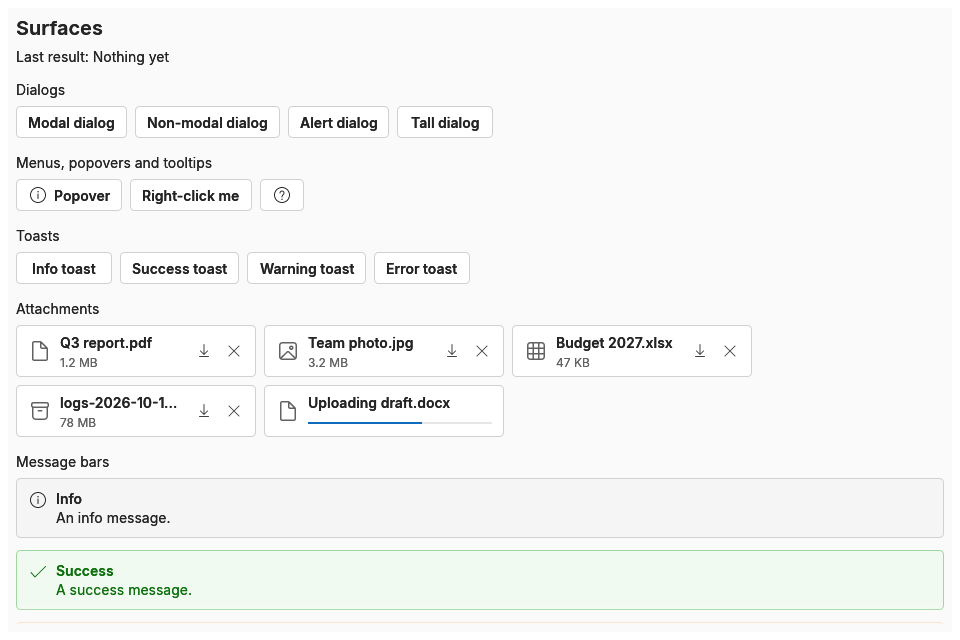
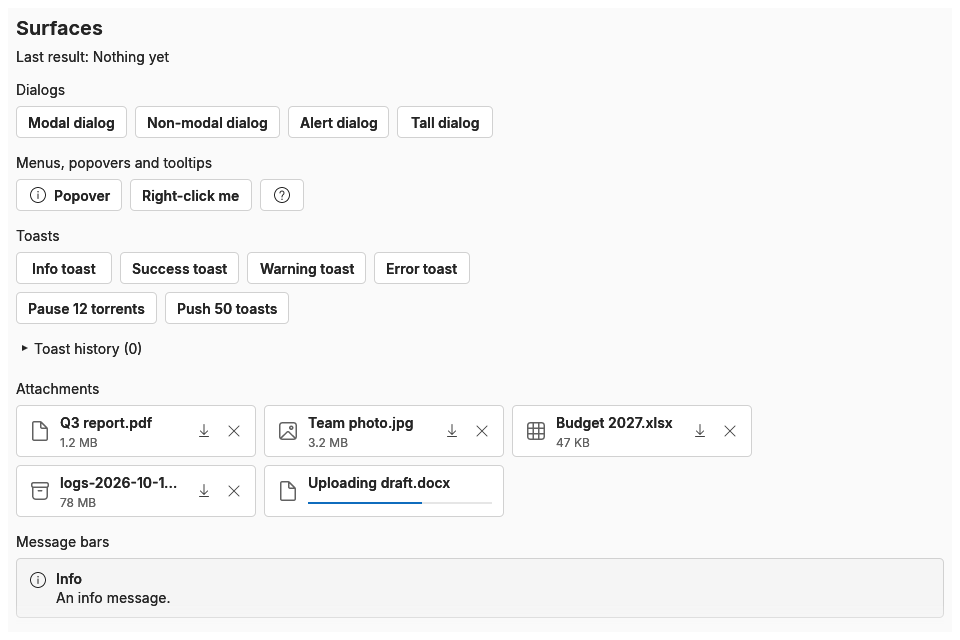
Toaster: coalescing, overflow count and history (#120) (#122)
- push_keyed coalesces a live toast with the same key into one toast
- collapsed '+N more' row counts toasts waiting behind the stack
- set_max_visible configures the stack size (default 3)
- history keeps the last 100 pushes; clear_history forgets them
- gallery surfaces page: keyed and bulk demos, history list

diff --git a/crates/fluent2-egui/src/surfaces/toast.rs b/crates/fluent2-egui/src/surfaces/toast.rs
@@ -1,9 +1,15 @@
 //! Fluent Toast and a toaster host.
 //!
 //! [`Toaster`] lives in `ctx.data`. The app calls [`Toaster::show`] once per frame;
-//! it draws at most three toasts in a foreground [`egui::Area`], newest at the
-//! bottom. Enter and exit slide and fade with the motion tokens. A timeout
-//! (default 5 s) pauses while the toast is hovered.
+//! it draws at most three toasts (see [`Toaster::set_max_visible`]) in a foreground
+//! [`egui::Area`], newest at the bottom. Toasts that do not fit are counted in a
+//! "+N more" row above the stack. Enter and exit slide and fade with the motion tokens.
+//! A timeout (default 5 s) pauses while the toast is hovered.
+//!
+//! [`Toaster::push_keyed`] coalesces: while a toast with the same key is still
+//! showing, the push replaces its content and restarts its timeout instead of stacking
+//! a second toast, so twelve "Paused" pushes from one bulk action read as one toast.
+//! [`Toaster::history`] keeps the last 100 pushes for a history list.
 //!
 //! ```
 //! use fluent2_egui::surfaces::{Intent, Toast, ToastPosition, Toaster};
@@ -31,6 +37,7 @@
 //! # }
 //! ```
 
+use std::collections::VecDeque;
 use std::time::Duration;
 
 use egui::epaint::RectShape;
@@ -78,9 +85,14 @@ pub struct Toast {
 #[derive(Clone, Copy, Debug, Eq, PartialEq, Hash)]
 pub struct ToastId(u64);
 
+/// How many pushes [`Toaster::history`] keeps. Older ones are dropped.
+const HISTORY_LIMIT: usize = 100;
+
 #[derive(Clone)]
 struct Entry {
     id: ToastId,
+    /// Coalescing key from [`Toaster::push_keyed`]; `None` for plain pushes.
+    key: Option<String>,
     toast: Toast,
     born: f64,
     paused_for: f64,
@@ -94,6 +106,8 @@ struct Host {
     next: u64,
     entries: Vec<Entry>,
     action_clicks: Vec<ToastId>,
+    max_visible: usize,
+    history: VecDeque<Toast>,
 }
 
 impl Default for Host {
@@ -102,6 +116,8 @@ impl Default for Host {
             next: 1,
             entries: Vec::new(),
             action_clicks: Vec::new(),
+            max_visible: MAX_VISIBLE,
+            history: VecDeque::new(),
         }
     }
 }
@@ -112,22 +128,102 @@ pub struct Toaster;
 impl Toaster {
     /// Queue a toast and return its id.
     pub fn push(ctx: &egui::Context, toast: Toast) -> ToastId {
+        Self::enqueue(ctx, None, toast)
+    }
+
+    /// Queue a toast under a coalescing key, and return its id.
+    ///
+    /// If a toast with the same key is still showing (not yet dismissed or exiting), it
+    /// takes the new content, moves to the newest position and restarts its timeout, and
+    /// its id is returned again. Otherwise this queues a new toast, as [`Toaster::push`]
+    /// does. Use it for bulk results such as "Paused 12 torrents".
+    ///
+    /// ```
+    /// use fluent2_egui::surfaces::{Intent, Toast, Toaster};
+    ///
+    /// # fn demo(ctx: &egui::Context, paused: usize) {
+    /// let _ = Toaster::push_keyed(
+    ///     ctx,
+    ///     "pause-torrents",
+    ///     Toast {
+    ///         intent: Intent::Info,
+    ///         title: format!("Paused {paused} torrents"),
+    ///         body: None,
+    ///         timeout: None,
+    ///         action: None,
+    ///     },
+    /// );
+    /// # }
+    /// ```
+    pub fn push_keyed(ctx: &egui::Context, key: impl AsRef<str>, toast: Toast) -> ToastId {
+        Self::enqueue(ctx, Some(key.as_ref()), toast)
+    }
+
+    /// How many toasts [`Toaster::show`] draws at once. Default 3; values below 1 are raised
+    /// to 1. Toasts beyond the limit wait in the queue and show as "+N more".
+    pub fn set_max_visible(ctx: &egui::Context, max: usize) {
+        ctx.data_mut(|data| {
+            data.get_temp_mut_or_default::<Host>(host_id()).max_visible = max.max(1);
+        });
+        ctx.request_repaint();
+    }
+
+    /// Every toast pushed recently, oldest first, including ones that have expired,
+    /// been dismissed or were coalesced into another. Keeps the last 100 pushes.
+    pub fn history(ctx: &egui::Context) -> Vec<Toast> {
+        ctx.data(|data| {
+            data.get_temp::<Host>(host_id())
+                .map(|host| host.history.iter().cloned().collect())
+                .unwrap_or_default()
+        })
+    }
+
+    /// Forget the history returned by [`Toaster::history`]. Toasts on screen are unchanged.
+    pub fn clear_history(ctx: &egui::Context) {
+        ctx.data_mut(|data| {
+            data.get_temp_mut_or_default::<Host>(host_id()).history.clear();
+        });
+    }
+
+    fn enqueue(ctx: &egui::Context, key: Option<&str>, toast: Toast) -> ToastId {
         // Read the clock before taking the data lock: `ctx.input` inside `data_mut` deadlocks.
         let now = ctx.input(|input| input.time);
         let mut id = ToastId(0);
         ctx.data_mut(|data| {
             let host = data.get_temp_mut_or_default::<Host>(host_id());
-            id = ToastId(host.next);
-            host.next = host.next.saturating_add(1);
-            host.entries.push(Entry {
-                id,
-                toast,
-                born: now,
-                paused_for: 0.0,
-                pause_started: None,
-                exiting: false,
-                exit_at: now,
+            if host.history.len() >= HISTORY_LIMIT {
+                host.history.pop_front();
+            }
+            host.history.push_back(toast.clone());
+
+            let live = key.and_then(|key| {
+                host.entries
+                    .iter()
+                    .position(|entry| !entry.exiting && entry.key.as_deref() == Some(key))
             });
+            if let Some(index) = live {
+                // Coalesce: move the live entry to the newest slot with the new content.
+                let mut entry = host.entries.remove(index);
+                entry.toast = toast;
+                entry.born = now;
+                entry.paused_for = 0.0;
+                entry.pause_started = None;
+                id = entry.id;
+                host.entries.push(entry);
+            } else {
+                id = ToastId(host.next);
+                host.next = host.next.saturating_add(1);
+                host.entries.push(Entry {
+                    id,
+                    key: key.map(str::to_owned),
+                    toast,
+                    born: now,
+                    paused_for: 0.0,
+                    pause_started: None,
+                    exiting: false,
+                    exit_at: now,
+                });
+            }
         });
         ctx.request_repaint();
         id
@@ -168,6 +264,7 @@ impl Toaster {
             MotionDuration::Normal.seconds() as f64
         };
         let mut visible: Vec<ToastId> = Vec::new();
+        let mut hidden = 0usize;
         let mut next_wake: Option<f64> = None;
         ctx.data_mut(|data| {
             let host = data.get_temp_mut_or_default::<Host>(host_id());
@@ -187,8 +284,13 @@ impl Toaster {
             }
             host.entries
                 .retain(|entry| !entry.exiting || now - entry.exit_at < motion);
-            // Newest at the bottom: the three newest are the tail, oldest of those first.
-            let start = host.entries.len().saturating_sub(MAX_VISIBLE);
+            // Newest at the bottom: the newest `max_visible` are the tail, oldest of those first.
+            let start = host.entries.len().saturating_sub(host.max_visible);
+            // Only toasts still waiting count as "more"; one fading out is not.
+            hidden = host.entries[..start]
+                .iter()
+                .filter(|entry| !entry.exiting)
+                .count();
             visible = host.entries[start..].iter().map(|entry| entry.id).collect();
             next_wake = next_wake_secs(&host.entries, now, motion);
         });
@@ -217,6 +319,9 @@ impl Toaster {
                 ui.set_width(320.0);
                 ui.spacing_mut().item_spacing.y = 8.0;
                 let theme = Theme::get(ctx);
+                if hidden > 0 {
+                    paint_overflow(ui, &theme, hidden);
+                }
                 for id in visible {
                     paint_one(ui, &theme, id, now, motion);
                 }
@@ -225,6 +330,17 @@ impl Toaster {
 }
 
 const MAX_VISIBLE: usize = 3;
+
+/// The collapsed row above the stack that counts toasts waiting behind the visible ones.
+fn paint_overflow(ui: &mut Ui, theme: &Theme, hidden: usize) {
+    let text = format!("+{hidden} more");
+    let color = crate::theme::c(theme.color.neutral_foreground_2);
+    ui.label(
+        egui::RichText::new(text)
+            .text_style(style(TypeRamp::Caption1))
+            .color(color),
+    );
+}
 
 fn paint_one(ui: &mut Ui, theme: &Theme, id: ToastId, now: f64, motion: f64) {
     let snapshot = ui.ctx().data(|data| {

diff --git a/crates/fluent2-egui/tests/toast.rs b/crates/fluent2-egui/tests/toast.rs
@@ -207,3 +207,104 @@ fn idle_toaster_schedules_the_repaint_that_expires_it() {
         "show should ask for a repaint at the timeout, got {delays:?}"
     );
 }
+
+/// Harness that runs `setup` on the first frame, then draws the stack on every frame.
+fn seeded_harness(setup: impl Fn(&egui::Context) + 'static) -> Harness<'static, u32> {
+    Harness::builder().with_step_dt(STEP).build_ui_state(
+        move |ui, step: &mut u32| {
+            let ctx = ui.ctx().clone();
+            install(&ctx, &Theme::default());
+            if *step == 0 {
+                setup(&ctx);
+            }
+            Toaster::show(&ctx, ToastPosition::BottomEnd);
+            *step += 1;
+        },
+        0u32,
+    )
+}
+
+#[test]
+fn fifty_rapid_pushes_show_the_stack_and_a_count() {
+    let mut harness = seeded_harness(|ctx| {
+        for n in 1..=50 {
+            let _ = Toaster::push(ctx, toast(&format!("Item {n}"), Duration::from_secs(30)));
+        }
+    });
+    harness.step();
+    assert!(harness.query_by_label("Item 50").is_some());
+    assert!(harness.query_by_label("Item 48").is_some());
+    assert!(harness.query_by_label("Item 47").is_none());
+    assert!(harness.query_by_label("+47 more").is_some());
+}
+
+#[test]
+fn keyed_pushes_coalesce_into_one_toast() {
+    let mut harness = seeded_harness(|ctx| {
+        let first = Toaster::push_keyed(ctx, "pause", toast("Paused 1 torrents", Duration::from_secs(30)));
+        for n in 2..=50 {
+            let title = format!("Paused {n} torrents");
+            let id = Toaster::push_keyed(ctx, "pause", toast(&title, Duration::from_secs(30)));
+            assert_eq!(id, first, "a live keyed toast keeps its id");
+        }
+    });
+    harness.step();
+    assert!(harness.query_by_label("Paused 50 torrents").is_some());
+    assert!(harness.query_by_label("Paused 49 torrents").is_none());
+    // Two more plain toasts fill the three slots only if the keyed push was one entry; were
+    // it fifty, the coalesced toast would be waiting behind the cap and not drawn.
+    let _ = Toaster::push(&harness.ctx, toast("Second", Duration::from_secs(30)));
+    let _ = Toaster::push(&harness.ctx, toast("Third", Duration::from_secs(30)));
+    harness.step();
+    assert!(harness.query_by_label("Paused 50 torrents").is_some());
+    assert_eq!(Toaster::history(&harness.ctx).len(), 52);
+}
+
+#[test]
+fn keyed_push_after_dismiss_starts_a_new_toast() {
+    let mut harness = seeded_harness(|ctx| {
+        let id = Toaster::push_keyed(ctx, "pause", toast("Paused 3 torrents", Duration::from_secs(30)));
+        Toaster::dismiss(ctx, id);
+    });
+    harness.step();
+    advance(&mut harness, 1.0);
+    assert!(harness.query_by_label("Paused 3 torrents").is_none());
+    let _ = Toaster::push_keyed(
+        &harness.ctx,
+        "pause",
+        toast("Paused 4 torrents", Duration::from_secs(30)),
+    );
+    harness.step();
+    assert!(harness.query_by_label("Paused 4 torrents").is_some());
+}
+
+#[test]
+fn history_keeps_the_last_hundred_pushes() {
+    let mut harness = seeded_harness(|ctx| {
+        for n in 1..=150 {
+            let _ = Toaster::push(ctx, toast(&format!("Log {n}"), Duration::from_secs(30)));
+        }
+    });
+    harness.step();
+    let history = Toaster::history(&harness.ctx);
+    assert_eq!(history.len(), 100);
+    assert_eq!(history.first().map(|t| t.title.as_str()), Some("Log 51"));
+    assert_eq!(history.last().map(|t| t.title.as_str()), Some("Log 150"));
+
+    Toaster::clear_history(&harness.ctx);
+    assert!(Toaster::history(&harness.ctx).is_empty());
+}
+
+#[test]
+fn max_visible_is_configurable() {
+    let mut harness = seeded_harness(|ctx| {
+        Toaster::set_max_visible(ctx, 1);
+        for name in ["One", "Two", "Three"] {
+            let _ = Toaster::push(ctx, toast(name, Duration::from_secs(30)));
+        }
+    });
+    harness.step();
+    assert!(harness.query_by_label("Three").is_some());
+    assert!(harness.query_by_label("Two").is_none());
+    assert!(harness.query_by_label("+2 more").is_some());
+}

diff --git a/crates/gallery/src/pages/surfaces.rs b/crates/gallery/src/pages/surfaces.rs
@@ -129,6 +129,43 @@ impl Page for SurfacesPage {
                 }
             }
         });
+        ui.horizontal_wrapped(|ui| {
+            // Presses coalesce into one toast while it is showing (push_keyed).
+            if ui.add(Button::new("Pause 12 torrents")).clicked() {
+                Toaster::push_keyed(
+                    ui.ctx(),
+                    "pause-torrents",
+                    Toast {
+                        intent: Intent::Info,
+                        title: "Paused 12 torrents".to_owned(),
+                        body: None,
+                        timeout: None,
+                        action: None,
+                    },
+                );
+            }
+            // Fifty pushes show the newest three and a "+47 more" row.
+            if ui.add(Button::new("Push 50 toasts")).clicked() {
+                for n in 1..=50 {
+                    Toaster::push(
+                        ui.ctx(),
+                        Toast {
+                            intent: Intent::Success,
+                            title: format!("Item {n}"),
+                            body: None,
+                            timeout: None,
+                            action: None,
+                        },
+                    );
+                }
+            }
+        });
+        let history = Toaster::history(ui.ctx());
+        egui::CollapsingHeader::new(format!("Toast history ({})", history.len())).show(ui, |ui| {
+            for toast in history.iter().rev() {
+                ui.label(&toast.title);
+            }
+        });
         Toaster::show(ui.ctx(), ToastPosition::BottomEnd);
 
         ui.add_space(8.0);

diff --git a/changelog.d/gh-120-toaster.md b/changelog.d/gh-120-toaster.md
@@ -1,0 +1,7 @@
+### Added
+
+- `Toaster::push_keyed` coalesces toasts: while a toast with the same key is showing, a push replaces its content, moves it to the newest slot and restarts its timeout, so a bulk action reads as one toast ("Paused 12 torrents").
+- A collapsed "+N more" row above the toast stack counts toasts waiting behind the visible ones.
+- `Toaster::set_max_visible` sets how many toasts the stack draws (default 3).
+- `Toaster::history` returns the last 100 pushed toasts, oldest first, and `Toaster::clear_history` forgets them, for a status-bar history list.
+- Gallery toasts page: a keyed "Pause 12 torrents" button, a "Push 50 toasts" button and a collapsed history list.
